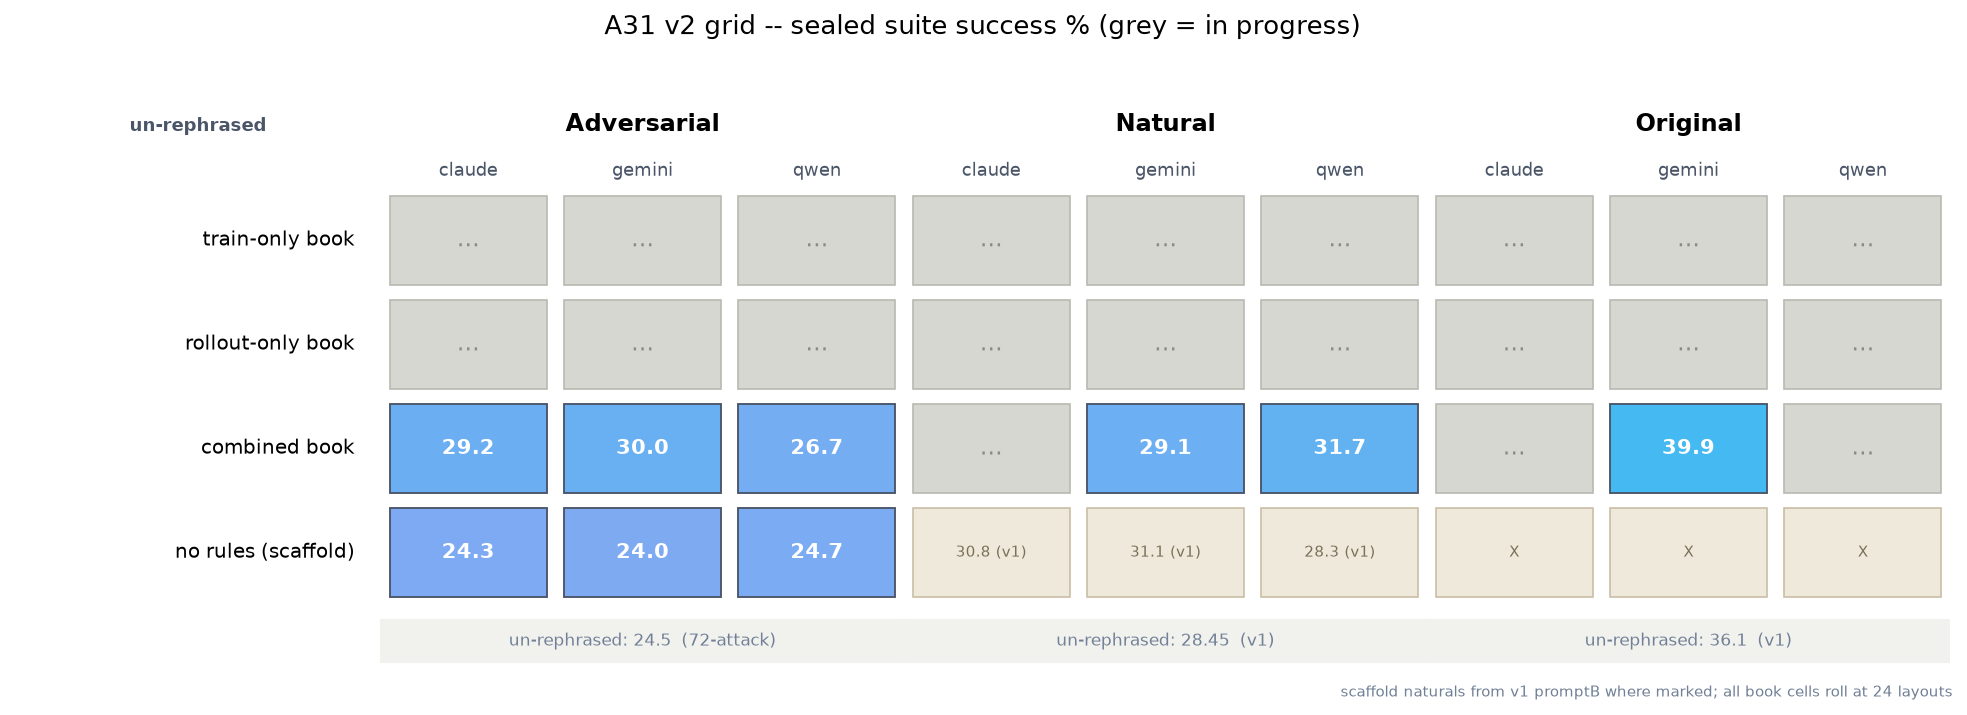
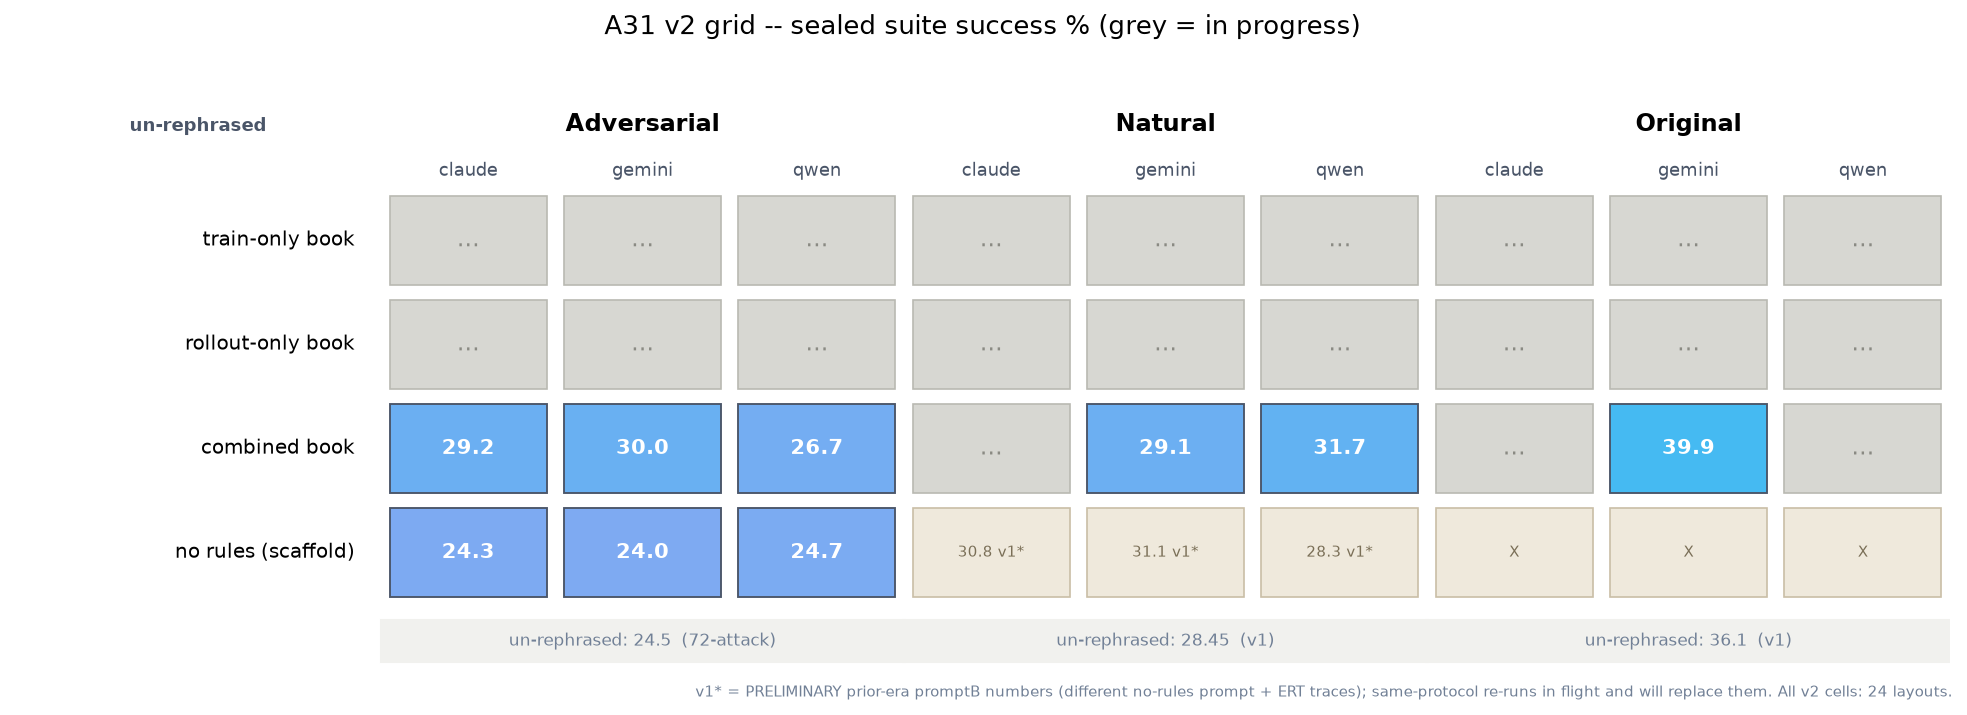
board: v1 scaffold naturals marked preliminary (re-runs in flight)

diff --git a/scripts/make_v2_status_board.py b/scripts/make_v2_status_board.py
@@ -70,7 +70,7 @@ for ri, (rk, rlabel) in enumerate(ROWS):
                         fontsize=10, fontweight="bold", color="white")
 fig.text(0.5, 0.97, "A31 v2 grid -- sealed suite success % (grey = in progress)",
          ha="center", fontsize=12.5)
-fig.text(0.99, 0.01, "scaffold naturals from v1 promptB where marked; all book cells roll at 24 layouts",
+fig.text(0.99, 0.01, "v1* = PRELIMINARY prior-era promptB numbers (different no-rules prompt + ERT traces); same-protocol re-runs in flight and will replace them. All v2 cells: 24 layouts.",
          ha="right", fontsize=7, color="#718096")
 fig.tight_layout(rect=[0, 0.02, 1, 0.93])
 out = REPO / "results/charts/v2_status_board.png"
